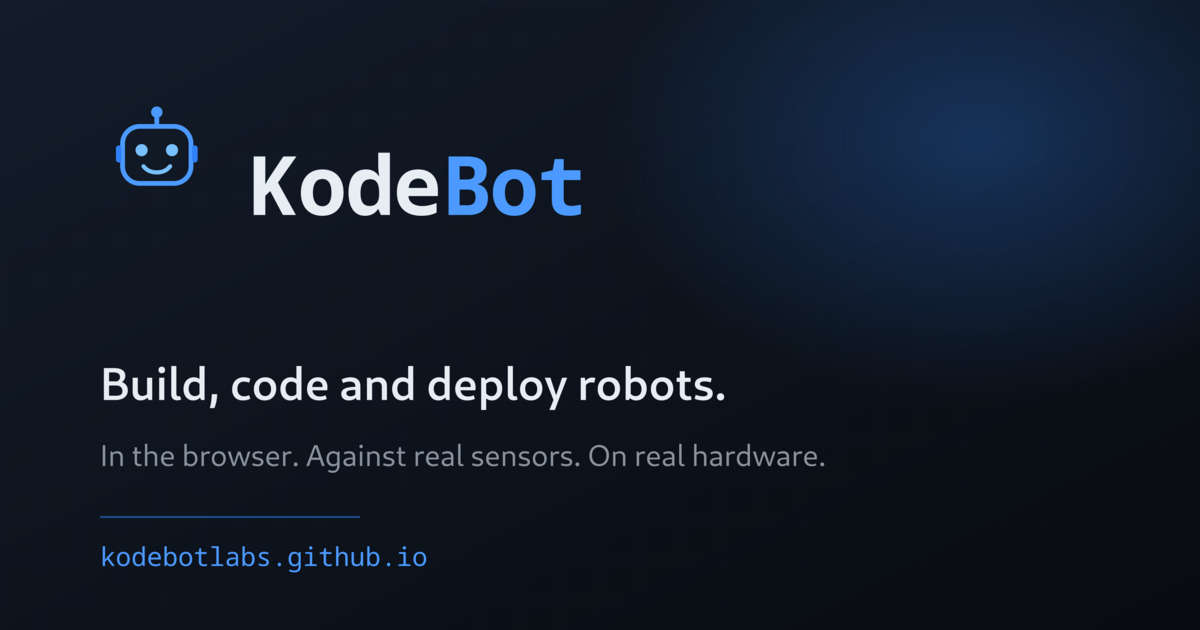
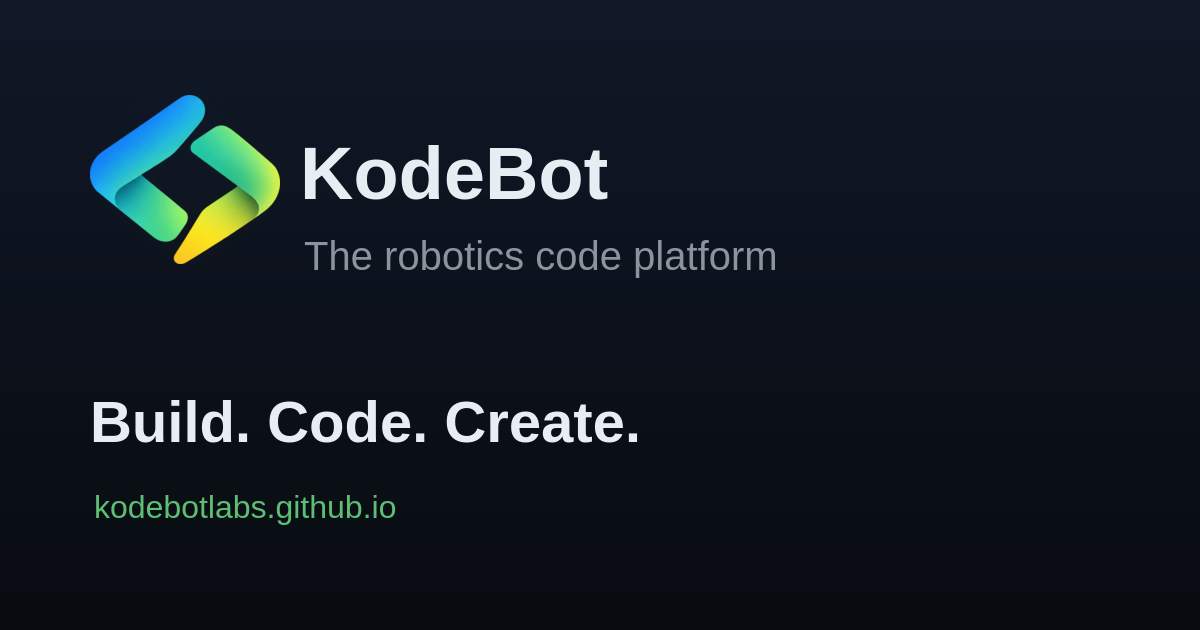
Brand v2: gradient ribbon emblem, new hero, harmonised palette

diff --git a/index.html b/index.html
@@ -3,66 +3,67 @@
 <head>
 <meta charset="utf-8">
 <meta name="viewport" content="width=device-width, initial-scale=1">
-<title>KodeBot — the robotics code platform</title>
-<meta name="description" content="Build, code and deploy robots. In the browser, against real sensors, on real hardware.">
+<title>KodeBot — Build. Code. Create.</title>
+<meta name="description" content="The robotics code platform. Build, code and deploy robots from the browser.">
 
-<!-- social preview -->
-<meta property="og:title" content="KodeBot — the robotics code platform">
-<meta property="og:description" content="Build, code and deploy robots.">
+<meta property="og:title" content="KodeBot — Build. Code. Create.">
+<meta property="og:description" content="The robotics code platform.">
 <meta property="og:type" content="website">
 <meta property="og:url" content="https://kodebotlabs.github.io/">
 <meta property="og:image" content="https://kodebotlabs.github.io/og.png">
 <meta name="twitter:card" content="summary_large_image">
-<meta name="twitter:title" content="KodeBot — the robotics code platform">
-<meta name="twitter:description" content="Build, code and deploy robots.">
+<meta name="twitter:title" content="KodeBot — Build. Code. Create.">
+<meta name="twitter:description" content="The robotics code platform.">
 <meta name="twitter:image" content="https://kodebotlabs.github.io/og.png">
 
-<link rel="icon" href="favicon.svg" type="image/svg+xml">
+<link rel="icon" href="favicon-32.png" sizes="32x32" type="image/png">
+<link rel="icon" href="favicon-64.png" sizes="64x64" type="image/png">
 <link rel="apple-touch-icon" href="export-avatar-128.png">
 
 <style>
   :root {
     --void:#0B0F14; --deep:#080B10; --surface:#151B23; --line:#1F2733;
-    --volt:#4C9AFF; --sky:#79C0FF; --text:#E6EDF3; --muted:#8B949E;
+    --blue:#1DA4EB; --teal:#3ACAA1; --green:#5DBF73; --lime:#CBE141;
+    --text:#E6EDF3; --muted:#8B949E;
     --mono: ui-monospace, SFMono-Regular, Menlo, Consolas, monospace;
     --sans: system-ui, -apple-system, "Segoe UI", Roboto, sans-serif;
+    --grad: linear-gradient(100deg, var(--blue) 0%, var(--teal) 45%, var(--green) 75%, var(--lime) 100%);
   }
   * { box-sizing:border-box; }
-  html { scroll-behavior:smooth; }
   body { margin:0; background:var(--void); color:var(--text);
          font:16px/1.65 var(--sans); -webkit-font-smoothing:antialiased; }
-  main { max-width:760px; margin:0 auto; padding:88px 24px 64px; }
+  main { max-width:760px; margin:0 auto; padding:80px 24px 64px; }
 
-  header { display:flex; align-items:center; gap:16px; margin-bottom:44px; }
-  header svg { flex:none; }
+  header { display:flex; align-items:center; gap:15px; margin-bottom:46px; }
+  header img { flex:none; border-radius:11px; }
   .word { font-family:var(--mono); font-size:1.5rem; font-weight:700; letter-spacing:-.5px; }
-  .word b { color:var(--volt); font-weight:700; }
 
   .pill { display:inline-block; border:1px solid var(--line); border-radius:999px;
-          padding:4px 12px; font-size:.78rem; color:var(--muted); margin-bottom:22px; }
+          padding:4px 12px; font-size:.78rem; color:var(--muted); margin-bottom:24px; }
   .pill::before { content:''; display:inline-block; width:6px; height:6px; border-radius:50%;
-                  background:var(--volt); margin-right:7px; vertical-align:middle; }
+                  margin-right:7px; vertical-align:middle; background:var(--teal); }
 
-  h1 { font-size:clamp(2.1rem,6vw,3.1rem); line-height:1.12; letter-spacing:-.02em;
-       margin:0 0 16px; }
-  h1 .accent { color:var(--volt); }
-  .lede { color:var(--muted); font-size:1.15rem; max-width:56ch; margin:0 0 36px; }
+  h1 { font-size:clamp(2.3rem,7.5vw,3.6rem); line-height:1.08; letter-spacing:-.025em;
+       margin:0 0 18px; font-weight:800; }
+  h1 .g { background:var(--grad); -webkit-background-clip:text; background-clip:text;
+          -webkit-text-fill-color:transparent; color:transparent; }
+  .lede { color:var(--muted); font-size:1.15rem; max-width:54ch; margin:0 0 36px; }
 
   form { display:flex; gap:10px; flex-wrap:wrap; margin:0 0 8px; }
   input[type=email] { flex:1 1 250px; padding:13px 15px; border-radius:9px;
                       border:1px solid var(--line); background:var(--surface);
                       color:var(--text); font:inherit; }
-  input[type=email]:focus { outline:2px solid var(--volt); outline-offset:1px; border-color:transparent; }
-  button { padding:13px 22px; border:0; border-radius:9px; background:var(--volt);
-           color:var(--deep); font:600 1rem var(--sans); cursor:pointer; }
-  button:hover { background:var(--sky); }
+  input[type=email]:focus { outline:2px solid var(--teal); outline-offset:1px; border-color:transparent; }
+  button { padding:13px 22px; border:0; border-radius:9px; background:var(--grad);
+           color:#08110C; font:700 1rem var(--sans); cursor:pointer; }
+  button:hover { filter:brightness(1.12); }
   .note { color:var(--muted); font-size:.85rem; }
 
   .cards { display:grid; gap:14px; grid-template-columns:repeat(auto-fit,minmax(210px,1fr));
            margin:44px 0 0; }
   .card { background:var(--surface); border:1px solid var(--line);
           border-radius:11px; padding:18px 20px; }
-  .card h3 { margin:0 0 6px; font-size:.95rem; font-family:var(--mono); color:var(--sky); }
+  .card h3 { margin:0 0 6px; font-family:var(--mono); font-size:.95rem; color:var(--teal); }
   .card p { margin:0; color:var(--muted); font-size:.9rem; }
 
   hr { border:0; border-top:1px solid var(--line); margin:52px 0 26px; }
@@ -70,32 +71,22 @@
   ul.links { list-style:none; padding:0; margin:0; display:flex; gap:10px; flex-wrap:wrap; }
   ul.links a { display:inline-block; border:1px solid var(--line); border-radius:8px;
                padding:8px 14px; color:var(--muted); text-decoration:none; font-size:.9rem; }
-  ul.links a:hover { border-color:var(--volt); color:var(--volt); }
-  a { color:var(--volt); }
-  footer { margin-top:56px; color:var(--muted); font-size:.85rem;
-           display:flex; gap:12px; flex-wrap:wrap; }
-  footer code { font-family:var(--mono); color:var(--sky); }
+  ul.links a:hover { border-color:var(--teal); color:var(--teal); }
+  a { color:var(--teal); }
+  footer { margin-top:56px; color:var(--muted); font-size:.85rem; }
+  footer code { font-family:var(--mono); color:var(--green); }
 </style>
 </head>
 <body>
 <main>
   <header>
-    <svg width="46" height="46" viewBox="0 0 64 64" aria-hidden="true">
-      <path d="M32 14v-4" stroke="#4C9AFF" stroke-width="2.5" stroke-linecap="round"/>
-      <circle cx="32" cy="8.5" r="3" fill="#4C9AFF"/>
-      <rect x="14" y="16" width="36" height="30" rx="9" fill="none" stroke="#4C9AFF" stroke-width="2.5"/>
-      <rect x="10.5" y="26" width="3" height="9" rx="1.5" fill="#2F81F7"/>
-      <rect x="50.5" y="26" width="3" height="9" rx="1.5" fill="#2F81F7"/>
-      <circle cx="24" cy="28.5" r="3.2" fill="#79C0FF"/>
-      <circle cx="40" cy="28.5" r="3.2" fill="#79C0FF"/>
-      <path d="M25 37c1.8 2.2 4 3.2 7 3.2s5.2-1 7-3.2" fill="none" stroke="#79C0FF" stroke-width="2.2" stroke-linecap="round"/>
-    </svg>
-    <span class="word">Kode<b>Bot</b></span>
+    <img src="export-avatar-64.png" width="46" height="46" alt="KodeBot logo">
+    <span class="word">KodeBot</span>
   </header>
 
   <span class="pill">coming soon</span>
-  <h1>Build, code and deploy <span class="accent">robots.</span></h1>
-  <p class="lede">In the browser. Against real sensors. On real hardware. No local setup, no dependency tangle, no guesswork.</p>
+  <h1><span class="g">Build. Code. Create.</span></h1>
+  <p class="lede">The robotics code platform. Write robot code in the browser, test it against real sensors, and deploy it to real hardware.</p>
 
   <form action="#" onsubmit="event.preventDefault(); this.reset(); alert('Thanks! We will email you when KodeBot launches.');">
     <input type="email" name="email" placeholder="you@example.com" required aria-label="Email address">
@@ -105,16 +96,16 @@
 
   <div class="cards">
     <div class="card">
-      <h3>Browser-based</h3>
-      <p>Write and debug robot code with nothing to install locally.</p>
+      <h3>Build</h3>
+      <p>Compose robot programs visually, with real hardware constraints in view.</p>
     </div>
     <div class="card">
-      <h3>Real sensors</h3>
-      <p>Test against actual sensor data, not just simulated guesses.</p>
+      <h3>Code</h3>
+      <p>Drop into the code when you need it. Nothing to install, nothing to break.</p>
     </div>
     <div class="card">
-      <h3>Real hardware</h3>
-      <p>Deploy straight to the robot when it behaves the way you expect.</p>
+      <h3>Create</h3>
+      <p>Ship it to the robot and watch it do the thing you built it for.</p>
     </div>
   </div>
 
@@ -131,8 +122,7 @@
   </ul>
 
   <footer>
-    <span>&copy; 2026 KodeBot</span>
-    <span><code>automaton</code> &middot; <code>telemetry</code> &middot; <code>actuator</code> &middot; <code>kinematics</code></span>
+    <code>automaton</code> &middot; <code>telemetry</code> &middot; <code>actuator</code> &middot; <code>kinematics</code>
   </footer>
 </main>
 </body>
